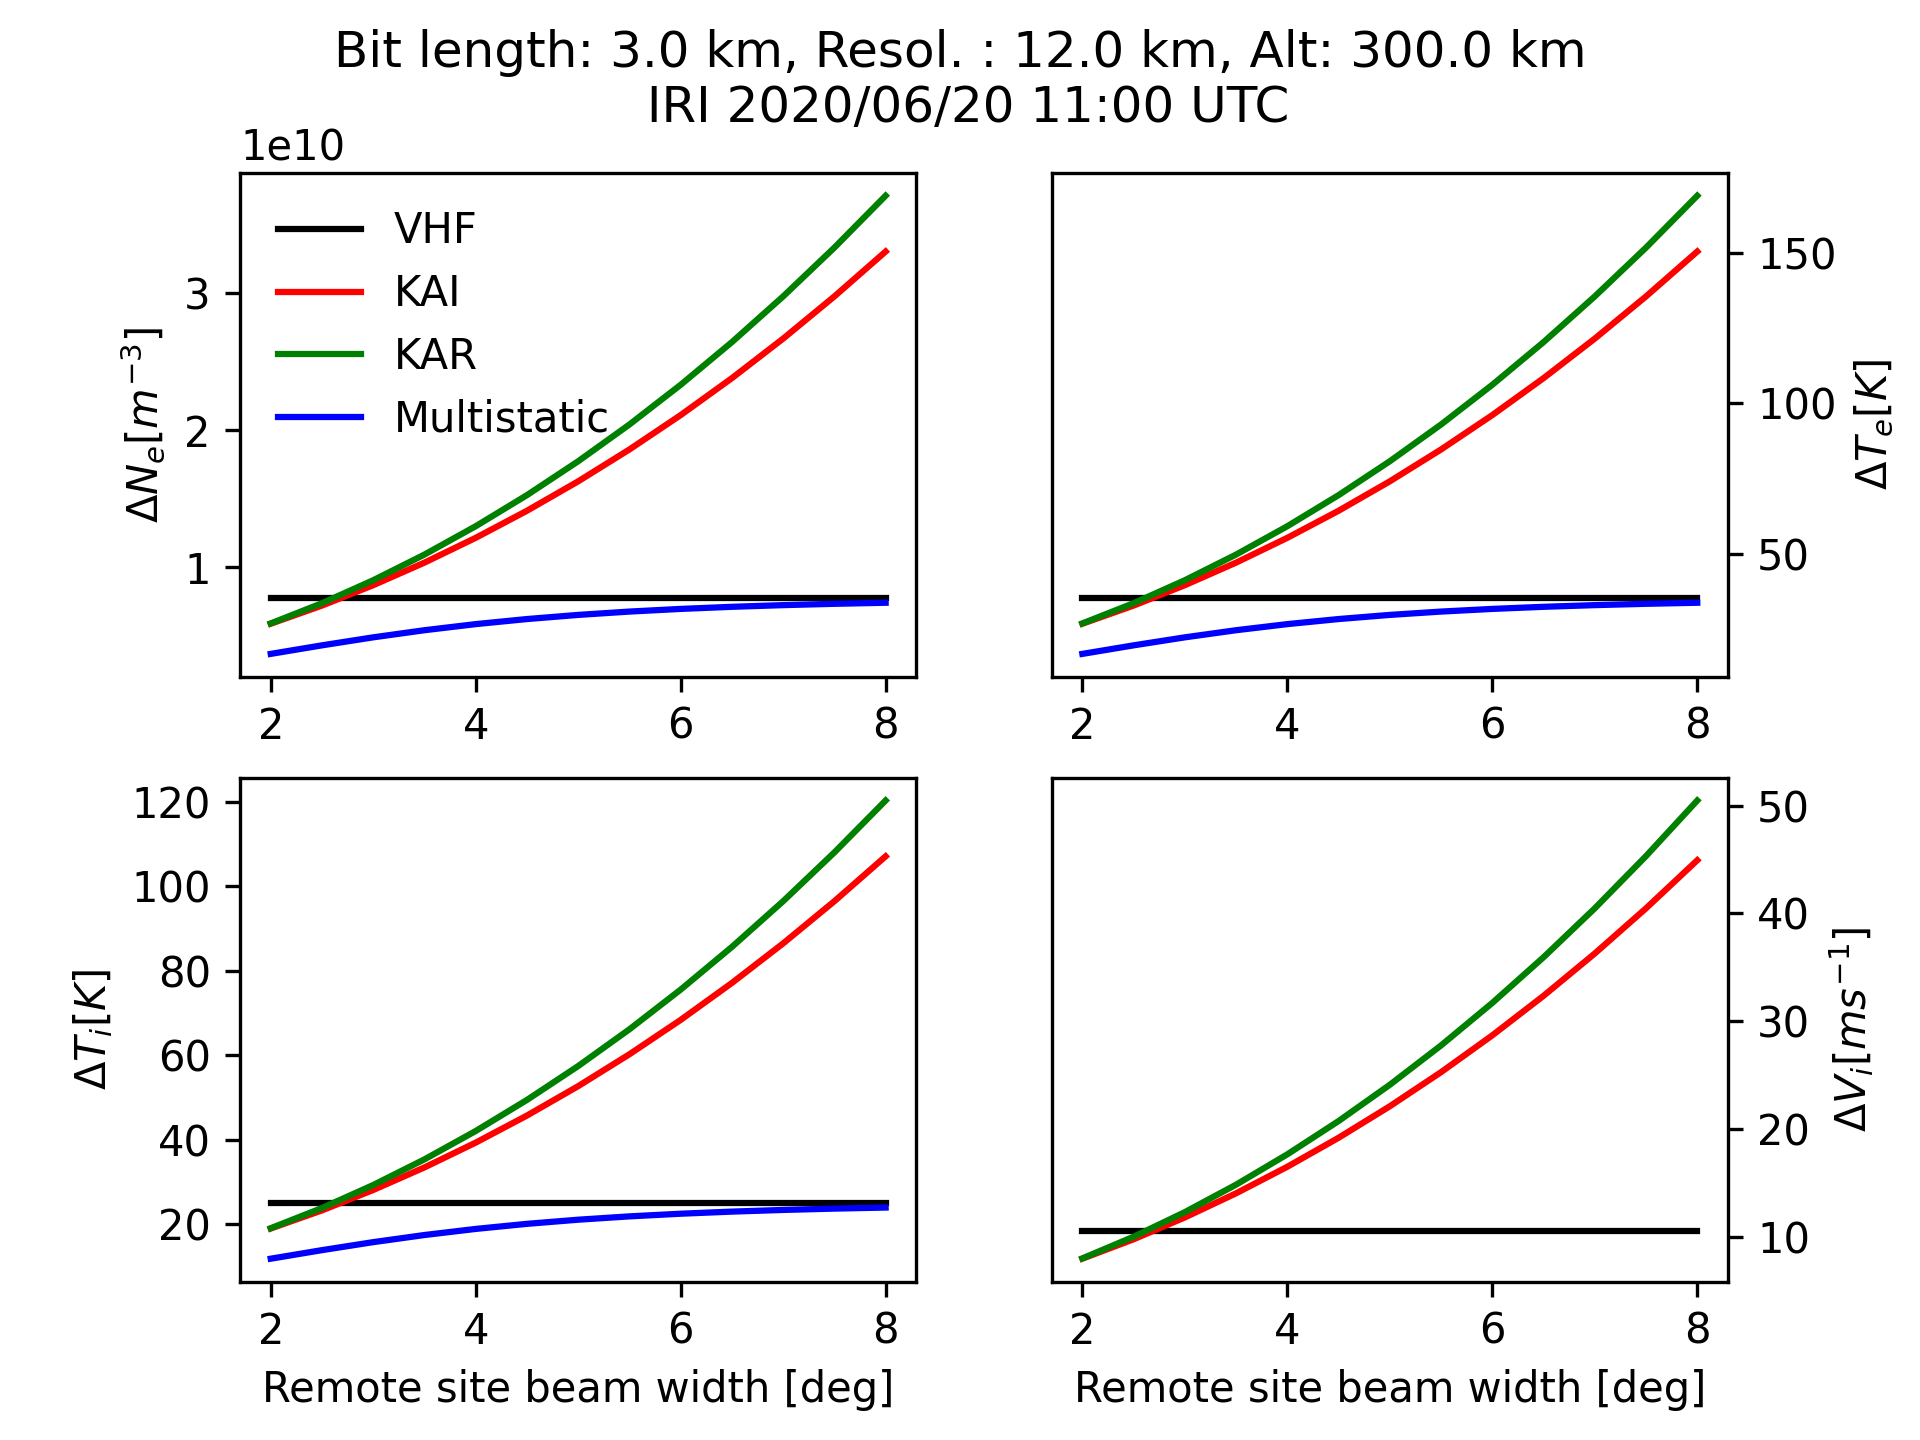
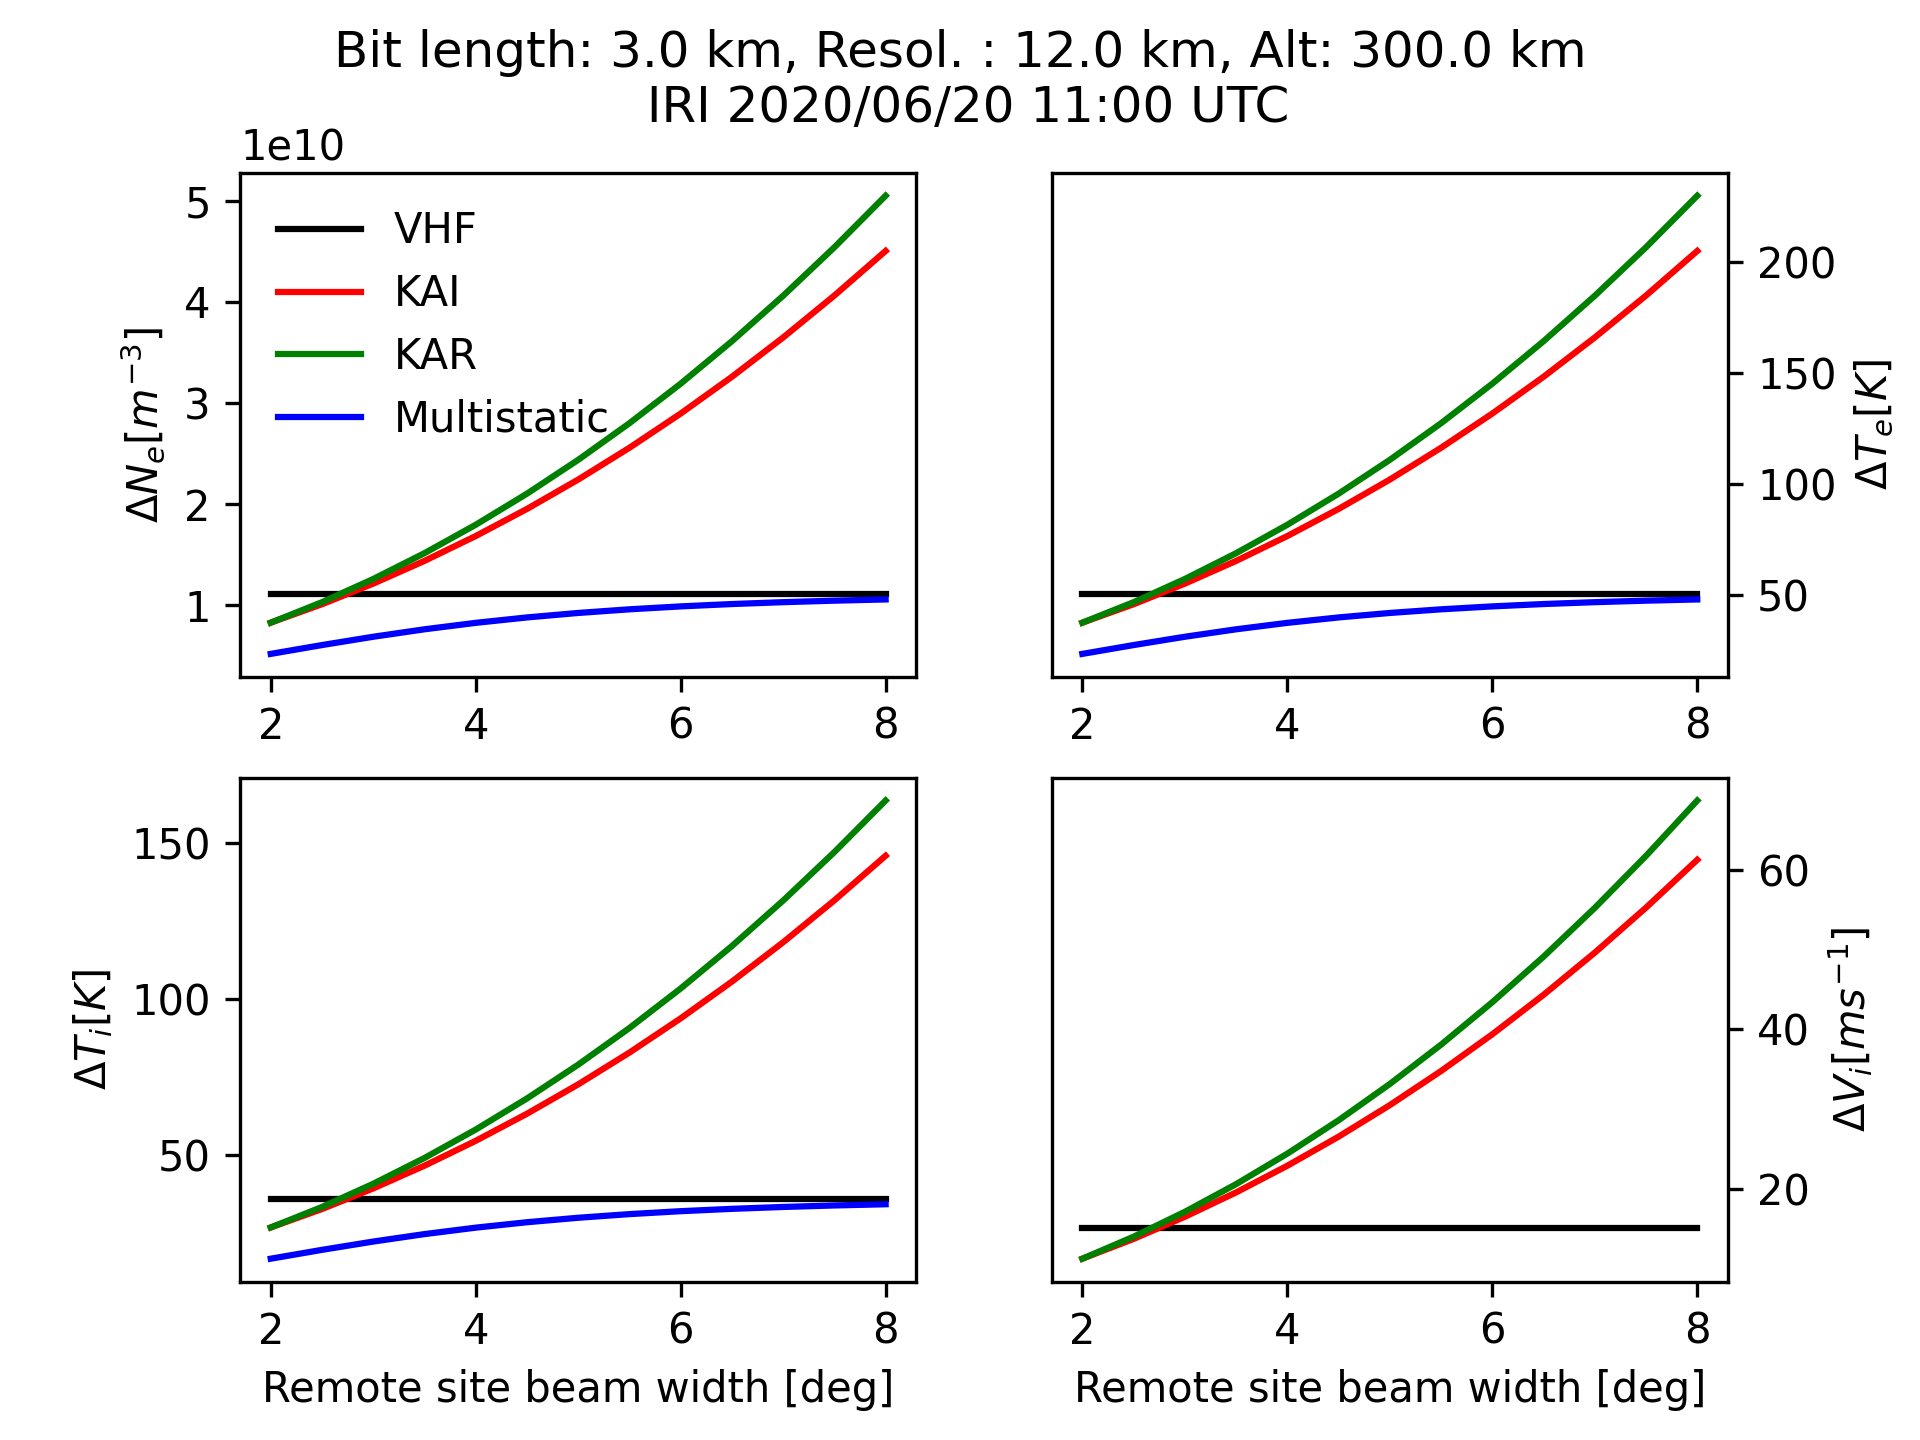
fixed frequency and duty cycle

diff --git a/E3DVHFspeed.py b/E3DVHFspeed.py
@@ -55,10 +55,10 @@ TXloc = ('TRO',gdlat_t,gdlon_t)
 RXloc = [('TRO',gdlat_r1,gdlon_r1),('KAI',gdlat_r2,gdlon_r2),('KRS',gdlat_r3,gdlon_r3)]
 
 # radar carrier frequency
-radarFreq  = 233e6
+radarFreq  = 224e6
 
 # transmitter duty cycle
-dutyCycle = 0.25
+dutyCycle = 0.125
 
 # "reception" duty cycle
 rxduty = [1.,1.,1.]
